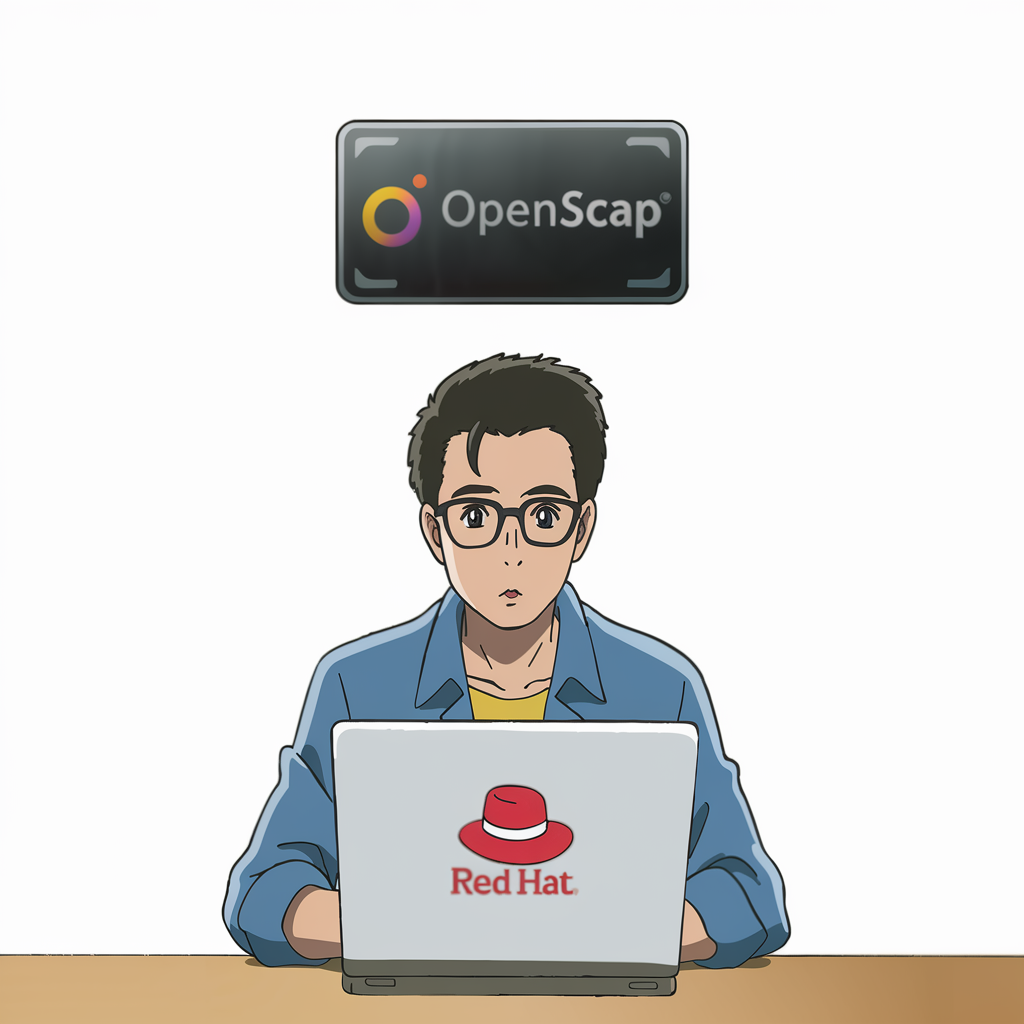
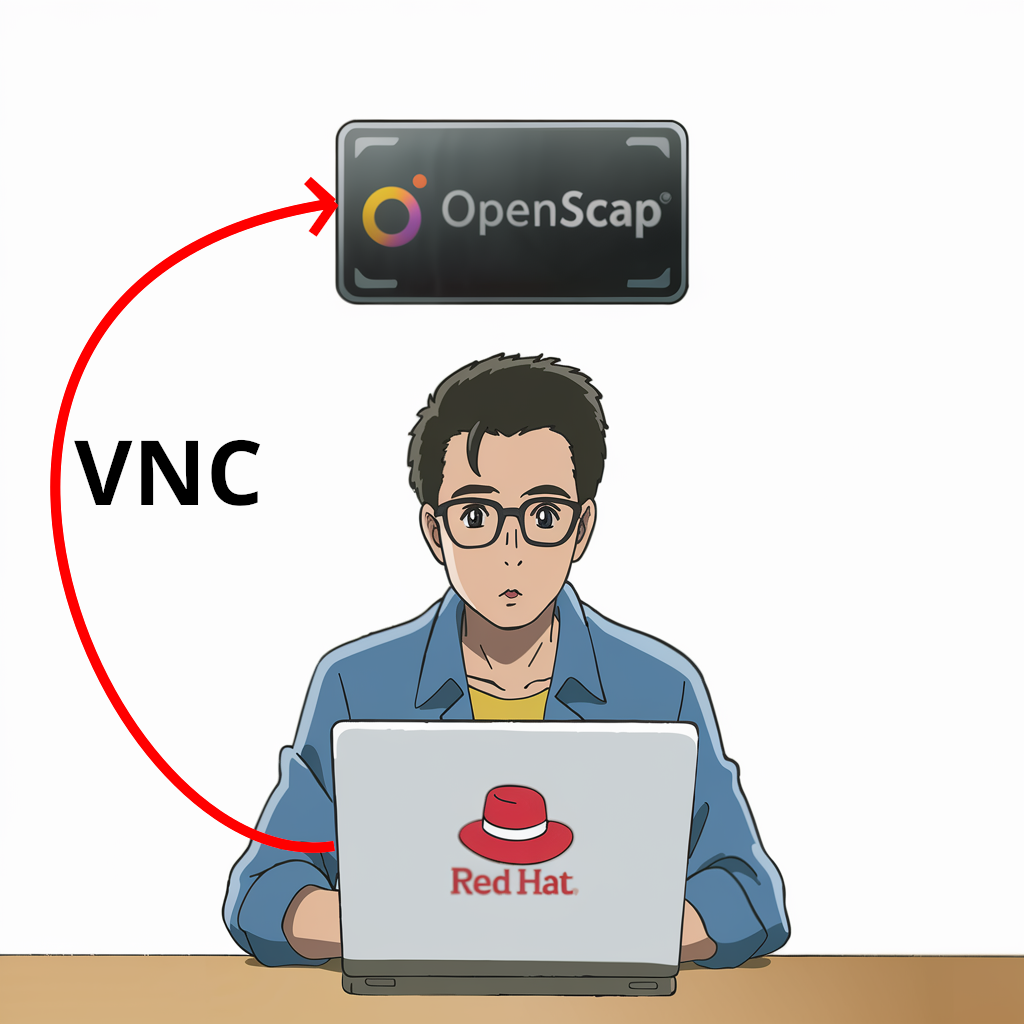
[CI] Publish Documentation for 62a5ca384d7ba3866c14c7616d6015e0055695df - 62a5ca384d7ba3866c14c7616d6015e0055695df 🚀

diff --git a/openscap/02-caso-practico.html b/openscap/02-caso-practico.html
@@ -142,7 +142,12 @@
 </td>
 <td class="content">
 <div class="paragraph">
-<p>Para el laboratorio utilizar usuario <strong>root</strong> y password <strong>redhat</strong> para acceder a la máquina <strong>openscap</strong>.</p>
+<p>Para el laboratorio utilizar usuario <strong>root</strong> y password <strong>redhat</strong> para acceder a la máquina <strong>openscap</strong> utilizando el launcher disponible en la barra de herramientas.</p>
+</div>
+<div class="imageblock">
+<div class="content">
+<img src="_images/openscap-vnc.png" alt="openscap vnc">
+</div>
 </div>
 </td>
 </tr>
